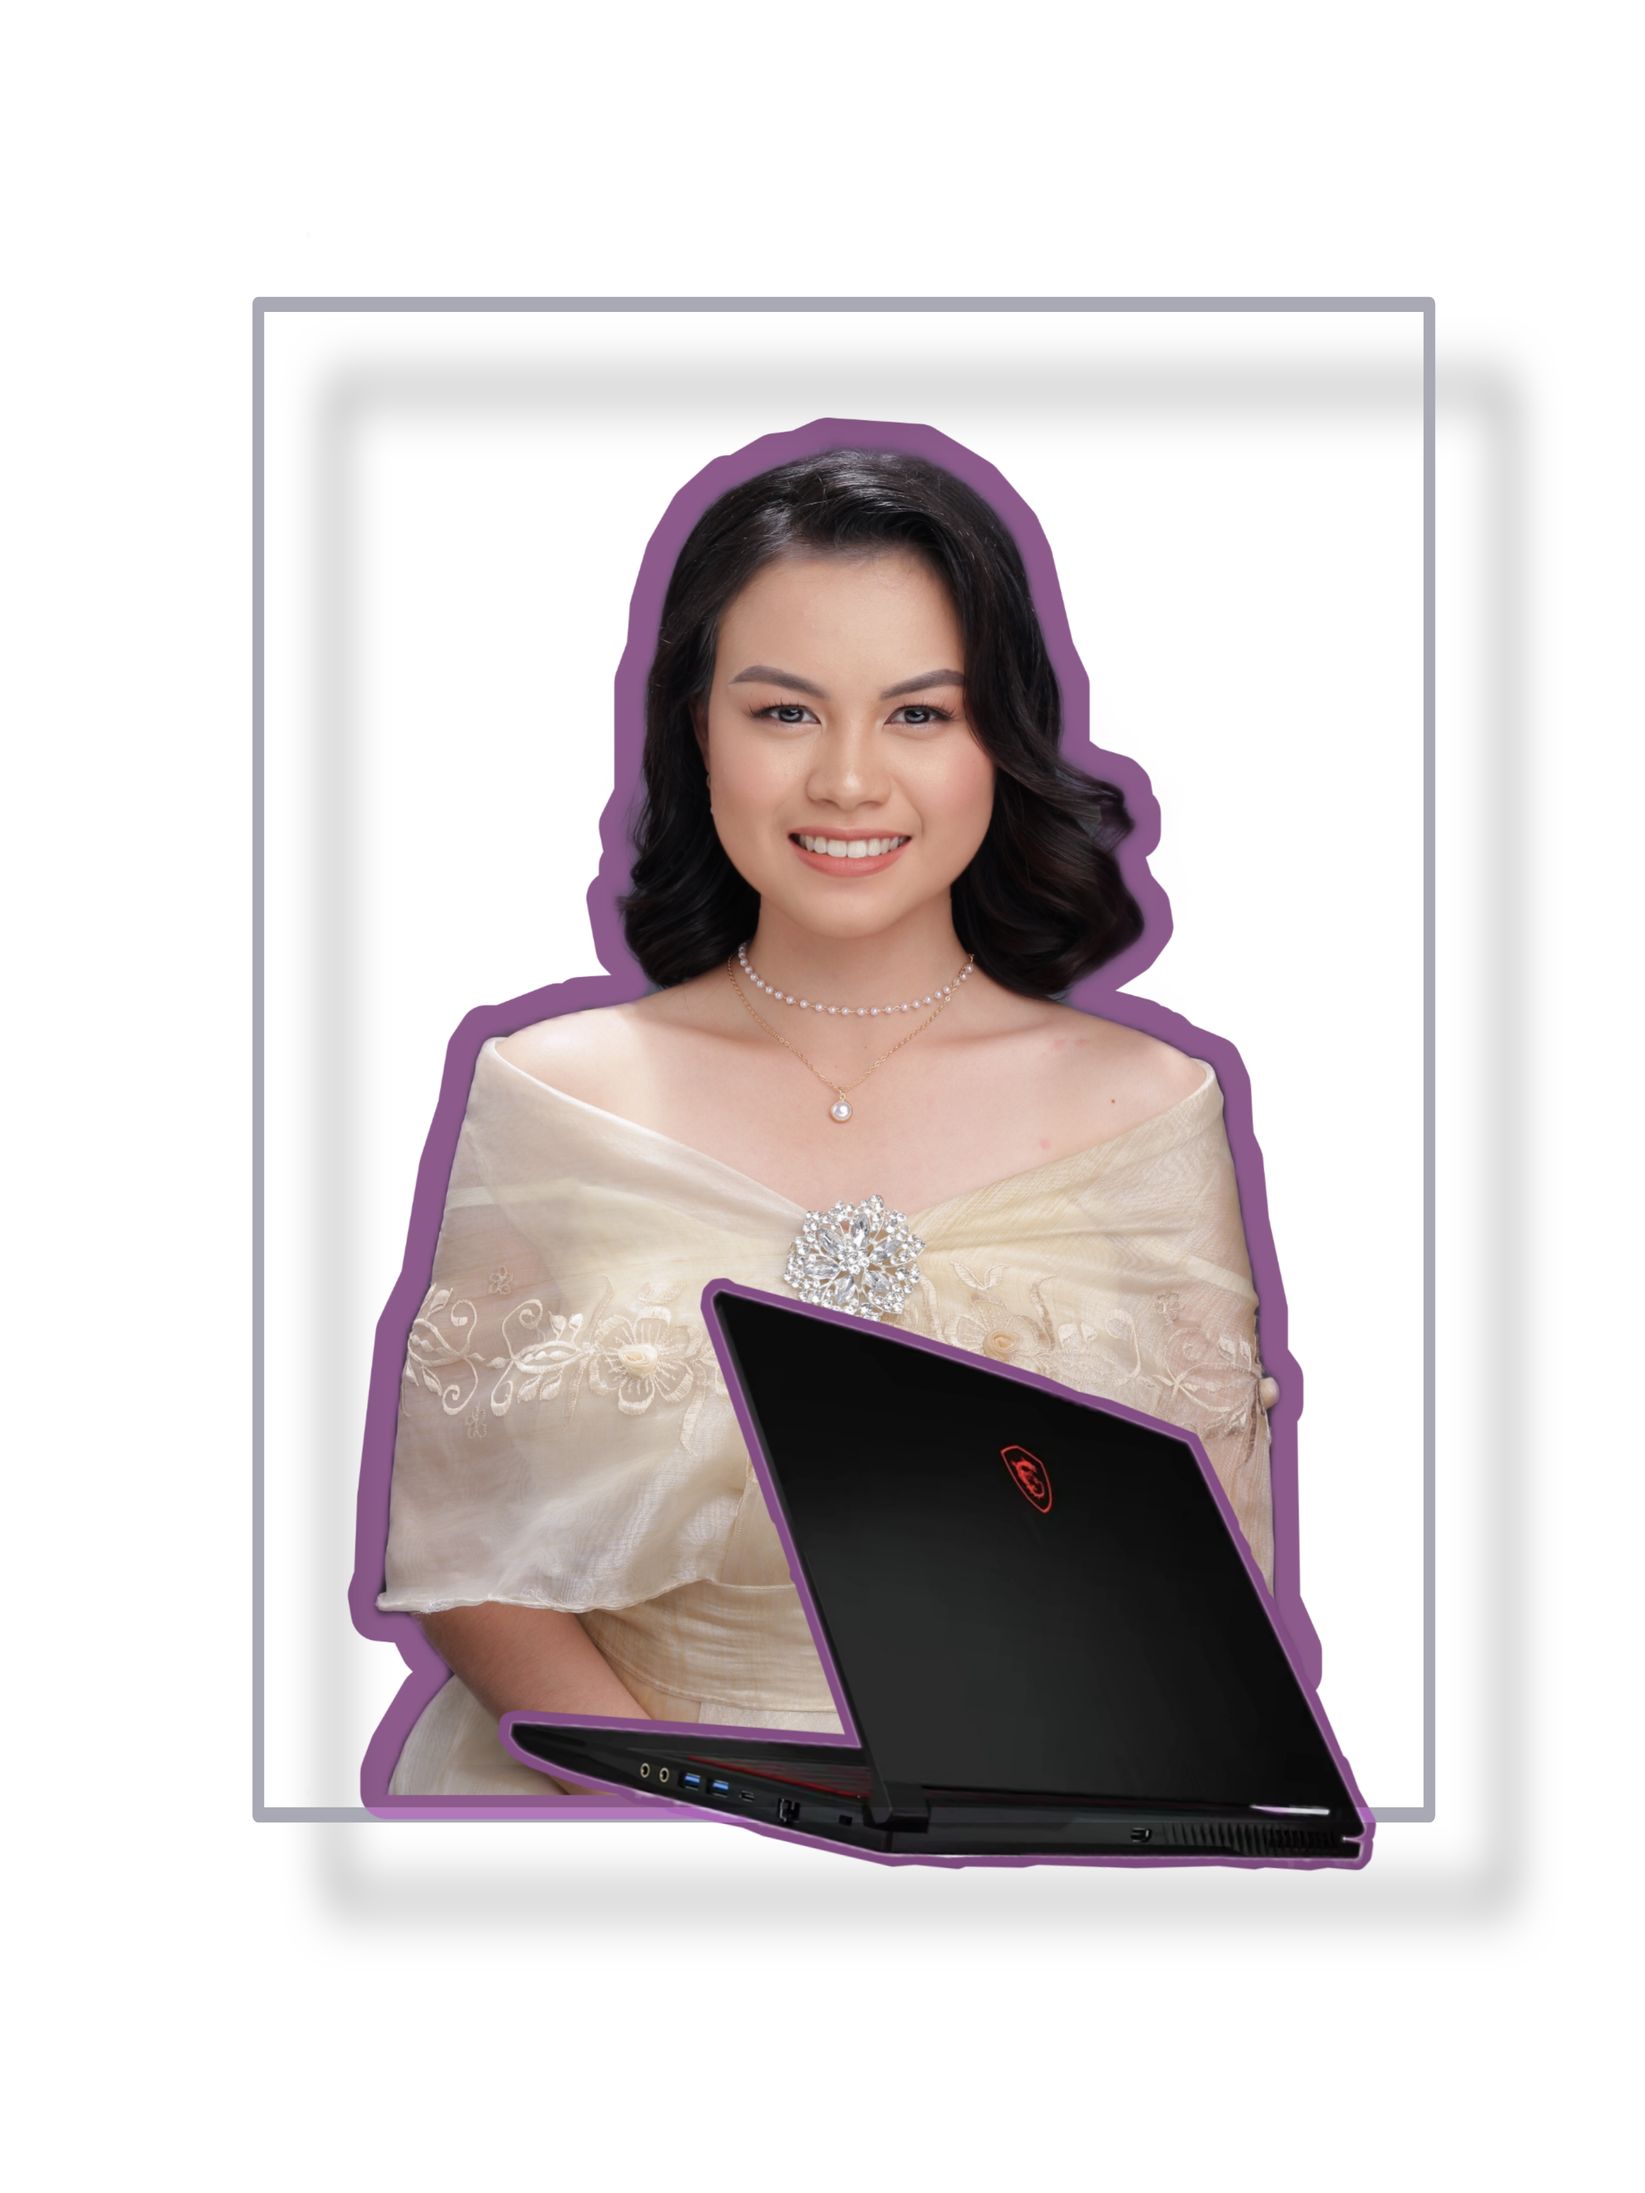
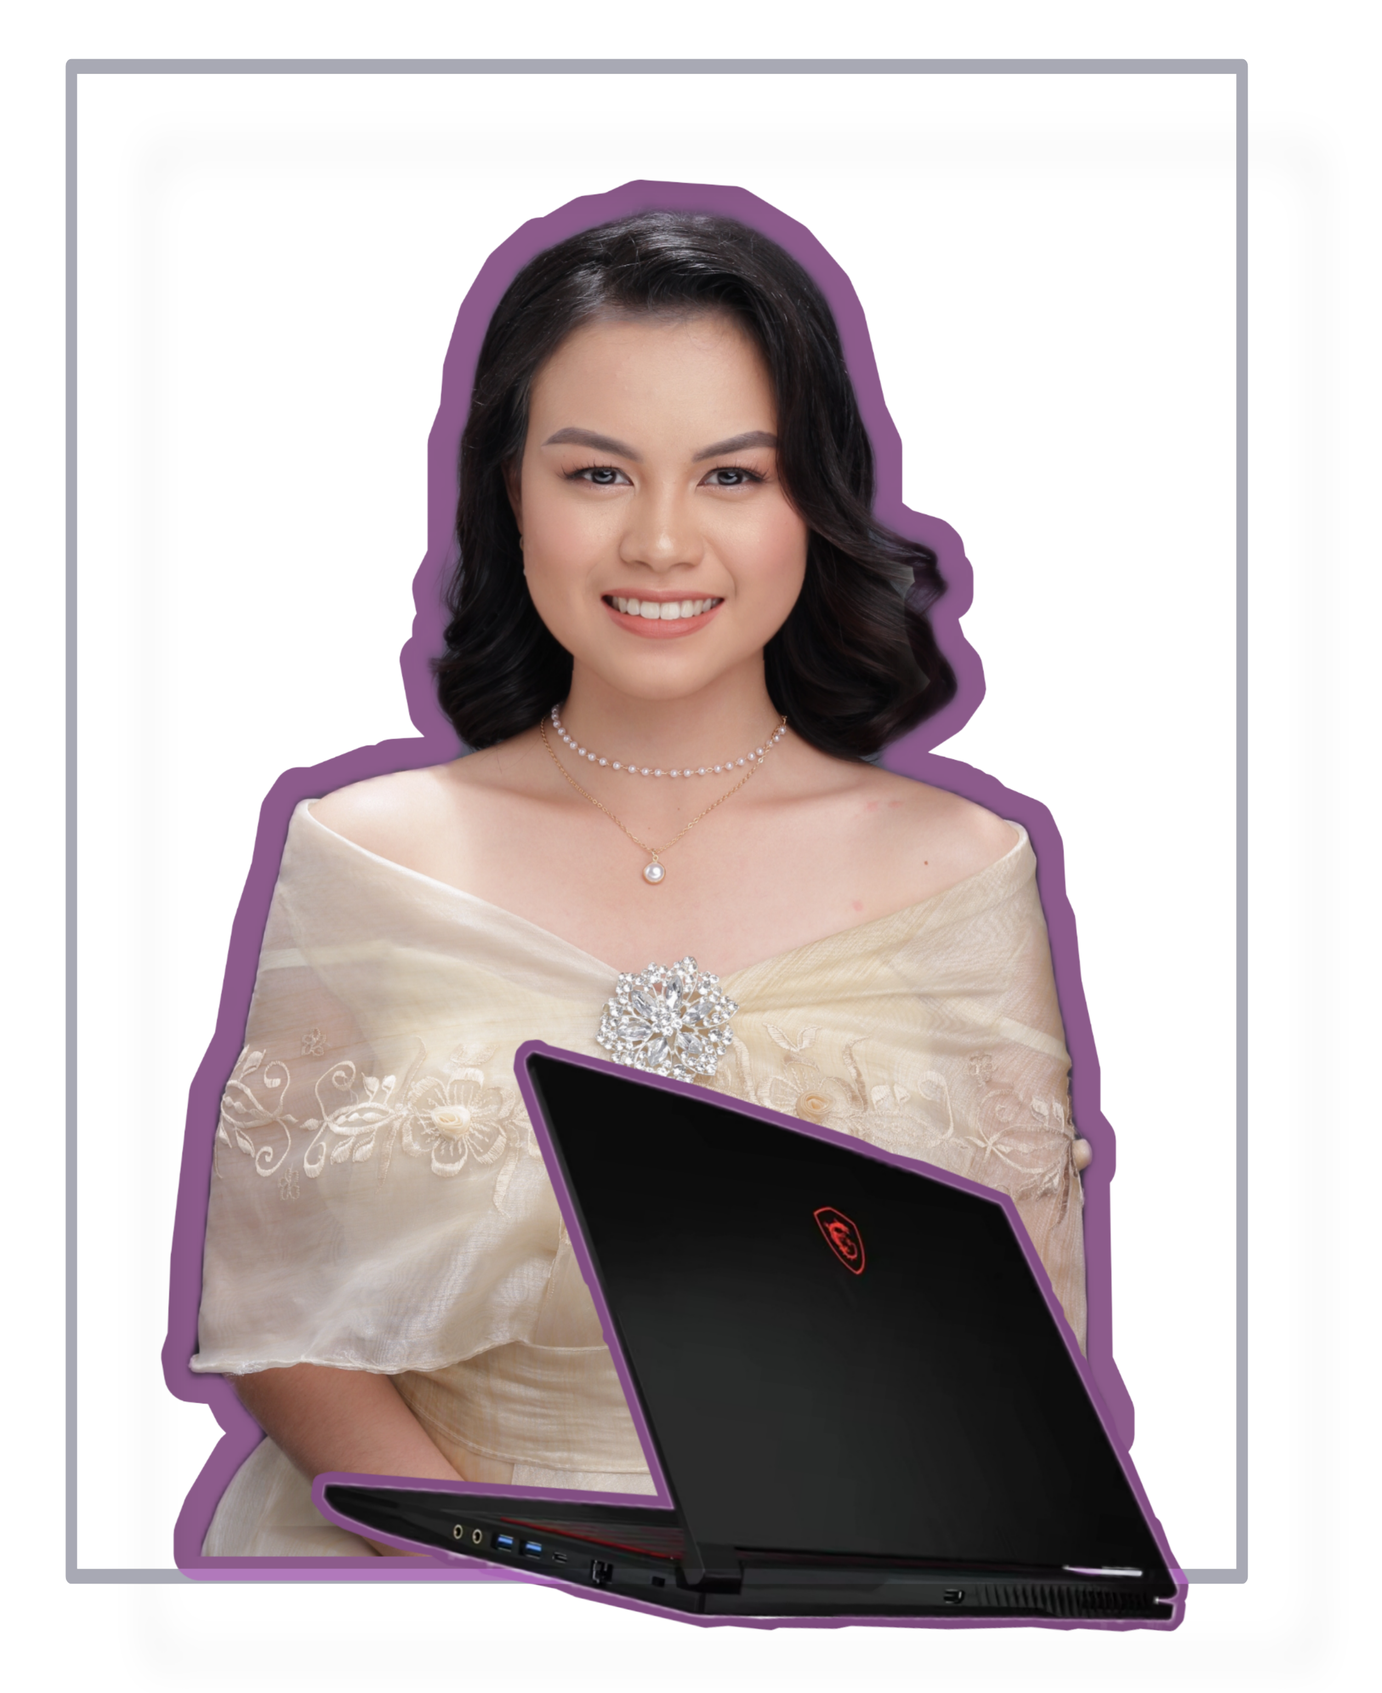
...

diff --git a/index.html b/index.html
@@ -40,12 +40,15 @@
   <main class="main">
 
     <!-- Hero Section -->
-    <section id="hero" class="hero section text-light p-5 text-center text-sm-start row">
-      <div class="container col-lg-6" data-aos="fade-up" data-aos-delay="100">
-        <h2 class="container-item">Angela Victoria Fruelda</h2>
-        <p class="container-item">I'm <span class="typed" data-typed-items="CPE Student, Front-end Developer, Full-stack Web Developer, Generative AI Explorer">CPE Student</span><span class="typed-cursor typed-cursor--blink" aria-hidden="true"></span><span class="typed-cursor typed-cursor--blink" aria-hidden="true"></span></p>
+    <section id="hero" class="hero section text-light p-5 text-center text-sm-start">
+      <div class="container row" data-aos="fade-up" data-aos-delay="100">
+        <div class="container-item col-lg-6 d-flex flex-column justify-content-center">
+          <h2 class="container-item">Angela Victoria Fruelda</h2>
+          <p class="container-item">I'm <span class="typed" data-typed-items="CPE Student, Front-end Developer, Full-stack Web Developer, Generative AI Explorer">CPE Student</span><span class="typed-cursor typed-cursor--blink" aria-hidden="true"></span><span class="typed-cursor typed-cursor--blink" aria-hidden="true"></span></p>
+        </div>
+        
+        <img class="container-item img-fluid col-lg-6 d-none d-md-block" src="/assets/img/hero.png" alt="proud programmer">
       </div>
-      <img class="img-fluid col-lg-6 d-none d-md-block h-20" src="/assets/img/hero.png" alt="proud programmer">
     </section>
 
     <!-- About Section -->

diff --git a/assets/css/main.css b/assets/css/main.css
@@ -477,7 +477,7 @@ section,
 }
 
 .hero img {
-  height: 800px; /* Adjust as needed */
+  height: 500px; /* Adjust as needed */
   width: auto;
 }
 
@@ -490,7 +490,6 @@ section,
 
 .hero .container {
   position: relative;
-  z-index: 3;
 }
 
 .hero h2 {
